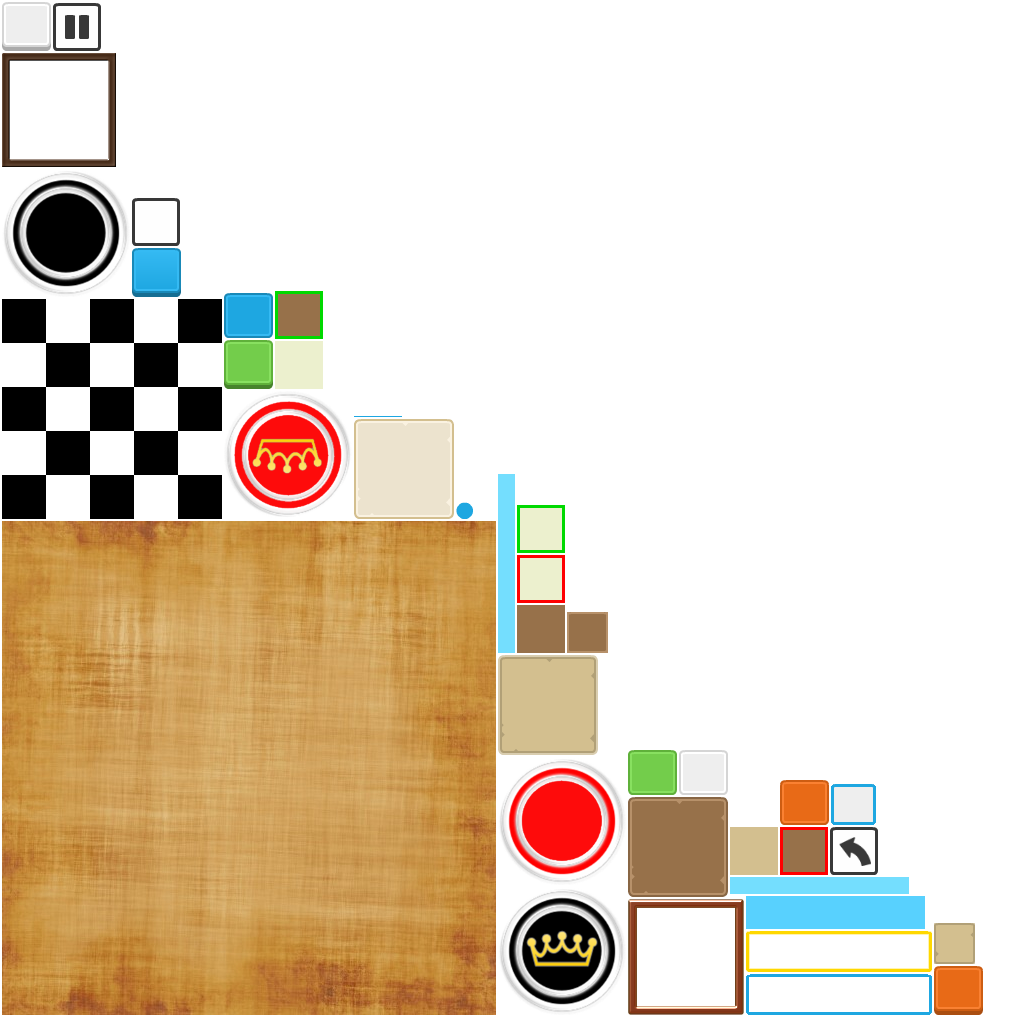
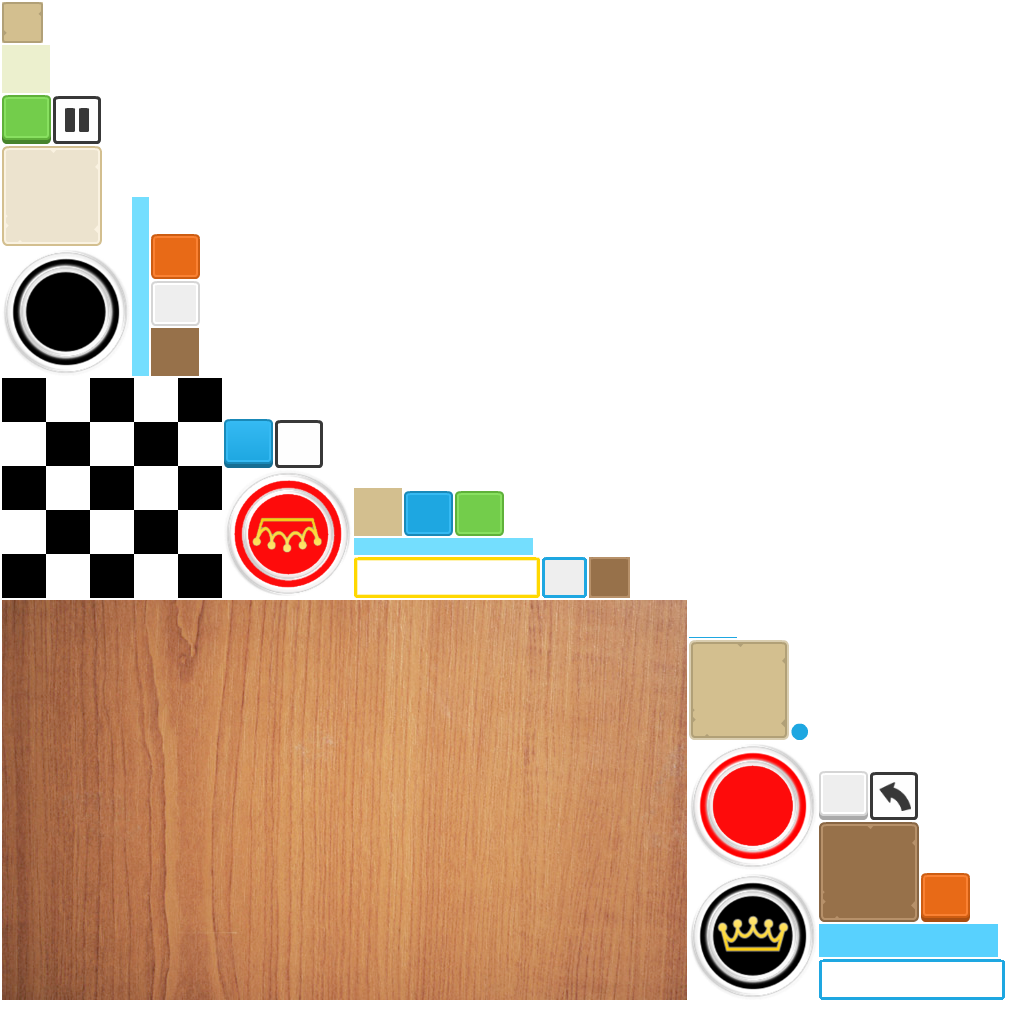
#redoing board drawing functions x,y rows,cols, introduced some bugs that need fixing

diff --git a/core/src/com/pennywise/checkers/screens/GameScreen.java b/core/src/com/pennywise/checkers/screens/GameScreen.java
@@ -116,7 +116,7 @@ public class GameScreen extends AbstractScreen implements InputProcessor, Multip
     private float[] boardPosition = null;
     private boolean ready = false;
     private float xx, yy;
-    private int playerTurn = Checker.BLACKNORMAL;
+    private int playerTurn = Checker.WHITENORMAL;
 
     public void newGame() {                            //creates a new game
 
@@ -143,6 +143,12 @@ public class GameScreen extends AbstractScreen implements InputProcessor, Multip
         preToMove3 = preToMove2 = preToMove1 = toMove;
 
 
+    }
+
+    private void clearBoard() {
+        for (int i = 0; i < 8; i++)
+            for (int j = 0; j < 8; j++)
+                board[i][j] = Checker.EMPTY;
     }
 
     private void copyBoard(int[][] src, int[][] dst) {
@@ -254,9 +260,8 @@ public class GameScreen extends AbstractScreen implements InputProcessor, Multip
                         fromTile = (Tile) actor;
                         if (actor instanceof Tile) {
                             Tile tile = (((Tile) actor));
-                            if (tile.getCellEntry() == Checker.BLACKNORMAL)
-                                tile.getStyle().background = Assets.img_selected_cell_dark;
-
+                            //if (tile.getCellEntry() == Checker.BLACKNORMAL)
+                            //    tile.getStyle().background = Assets.img_selected_cell_dark;
                         }
                     } else
                         humanPiece = null;
@@ -292,14 +297,6 @@ public class GameScreen extends AbstractScreen implements InputProcessor, Multip
             }
         }
 
-
-        //if (humanPiece != null)
-        //    checkWhitePieceCollision(humanPiece);
-
-        //if (cpuPiece != null)
-        //    checkBlackPieceCollision(cpuPiece);
-
-
         stage.act();
         stage.draw();
 
@@ -312,8 +309,6 @@ public class GameScreen extends AbstractScreen implements InputProcessor, Multip
         renderHud(batch);
 
         save();
-
-        //removeCapturedPieces();
 
         drawRect();
     }
@@ -358,6 +353,7 @@ public class GameScreen extends AbstractScreen implements InputProcessor, Multip
         Stack stack = new Stack();
         stack.setSize(Constants.GAME_WIDTH, Constants.GAME_HEIGHT);
         stack.add(hud());
+        stack.add(backGround());
         stack.add(layerBoard);
         stage.addActor(stack);
 
@@ -366,7 +362,7 @@ public class GameScreen extends AbstractScreen implements InputProcessor, Multip
 
     private Table backGround() {
         Table layer = new Table();
-        Image bg = new Image(Assets.img_background);
+        Image bg = new Image(Assets.img_wood);
         layer.add(bg).height(Constants.GAME_HEIGHT).width(Constants.GAME_WIDTH).expandX().expandY();
         return layer;
     }
@@ -536,16 +532,6 @@ public class GameScreen extends AbstractScreen implements InputProcessor, Multip
                 to = dest;
                 break;
         }
-    }
-
-    protected Tile getTile(String name) {
-
-        for (Tile t : backgroundTiles) {
-            if (t.getName().equalsIgnoreCase(name))
-                return t;
-        }
-
-        return null;
     }
 
     protected void drawRect() {
@@ -908,13 +894,11 @@ public class GameScreen extends AbstractScreen implements InputProcessor, Multip
     }
 
     private void updateBoard(TransmissionPackage transmissionPackage) {
-        //board = transmissionPackage.getGameboard();
-        String message = transmissionPackage.getMessage();
+
+        copyBoard(transmissionPackage.getGameboard(), board);
+
         int[][] mv = transmissionPackage.getMove();
 
-        String name = transmissionPackage.getName();
-
-        Tile destTile = null;
         SequenceAction sequenceAction = new SequenceAction();
 
         int[] m = mv[0];
@@ -923,8 +907,6 @@ public class GameScreen extends AbstractScreen implements InputProcessor, Multip
         int starty = m[1];
         int endx = m[2];
         int endy = m[3];
-
-        int from = Util.toNumber(startx, starty);
 
         cpuPiece = getPiece(startx, starty);
 
@@ -937,15 +919,8 @@ public class GameScreen extends AbstractScreen implements InputProcessor, Multip
             if (mv[i] == null)
                 break;
 
-            int to = Util.toNumber(endx, endy);
-
-            Gdx.app.log("BLACK MOVE", "FROM => " + from + " TO => " + to);
-
-            destTile = getTile(to + "");
-            cpuPiece.setName(to + "");
-
-            float posX = destTile.getX();
-            float posY = destTile.getY();
+            float posX = ((endx) * cellsize) + 4;
+            float posY = ((endy) * cellsize + boardPosition[1]) + 4;
 
             sequenceAction.addAction(delay(0.35f));
             sequenceAction.addAction(moveTo(posX, posY, 0.35f));
@@ -955,20 +930,19 @@ public class GameScreen extends AbstractScreen implements InputProcessor, Multip
             endy = m[3];
         }
 
-        final Tile end = destTile;
-
         sequenceAction.addAction(
                 run(new Runnable() {
                         public void run() {
                             cpuPiece.setSelected(false);
                             cpuPiece.toBack();
                             drawPieces(8, 8);
+                            playerTurn = getPlayer();
                             humanTurn = true;
                         }
                     }
                 ));
 
-        //update name
+        //update
         if (cpuPiece != null) {
             cpuPiece.toFront();
             cpuPiece.addAction(sequenceAction);

diff --git a/core/src/com/pennywise/Assets.java b/core/src/com/pennywise/Assets.java
@@ -2,7 +2,6 @@ package com.pennywise;
 
 import com.badlogic.gdx.Gdx;
 import com.badlogic.gdx.graphics.Color;
-import com.badlogic.gdx.graphics.Texture;
 import com.badlogic.gdx.graphics.g2d.BitmapFont;
 import com.badlogic.gdx.graphics.g2d.NinePatch;
 import com.badlogic.gdx.graphics.g2d.Sprite;
@@ -29,10 +28,9 @@ public class Assets {
     public static SpriteDrawable img_pawn_black;
     public static SpriteDrawable img_king_black;
     public static SpriteDrawable img_undo;
+    public static SpriteDrawable img_wood;
     public static NinePatch img_background;
     public static NinePatch img_board_bg;
-    public static SpriteDrawable img_selected_cell_dark;
-    public static SpriteDrawable img_selected_cell_lite;
     public static SpriteDrawable img_dark_outline;
     public static SpriteDrawable img_btn_pause;
 
@@ -67,8 +65,6 @@ public class Assets {
     public void loadImages() {
         img_background = getAtlas().createPatch("panelinset_beigelight");
         img_board_bg = getAtlas().createPatch("panel_brown");
-        img_selected_cell_dark = getDrawable("selecteddarkcell");
-        img_selected_cell_lite = getDrawable("selectedlitecell");
         img_cell_dark = getDrawable("darkcell");
         img_cell_light = getDrawable("litecell");
         img_pawn_black = getDrawable("blackpawn");
@@ -76,6 +72,7 @@ public class Assets {
         img_king_black = getDrawable("blackking");
         img_king_white = getDrawable("whiteking");
         img_dark_outline = getDrawable("line_dark");
+        img_wood = getDrawable("wood");
         img_undo = getDrawable("undo");
 
     }

diff --git a/android/src/com/pennywise/android/AndroidLauncher.java b/android/src/com/pennywise/android/AndroidLauncher.java
@@ -101,8 +101,8 @@ public class AndroidLauncher extends AndroidApplication implements AdManager {
             public void run() {
                 adView.setVisibility(View.VISIBLE);
                 AdRequest.Builder adRequestBuilder = new AdRequest.Builder();
-                adRequestBuilder.addTestDevice("85253FE6D4C2A3DEBA982785D93C3ABF");
-                //adRequestBuilder.addTestDevice("A171181E4E254A38F6E617040D216CC8");
+                //adRequestBuilder.addTestDevice("85253FE6D4C2A3DEBA982785D93C3ABF");
+                adRequestBuilder.addTestDevice("04E31A82E4F59C0A4B5C7435726123DD");
                 adRequestBuilder.addTestDevice(AdRequest.DEVICE_ID_EMULATOR);
                 adView.loadAd(adRequestBuilder.build());
             }
